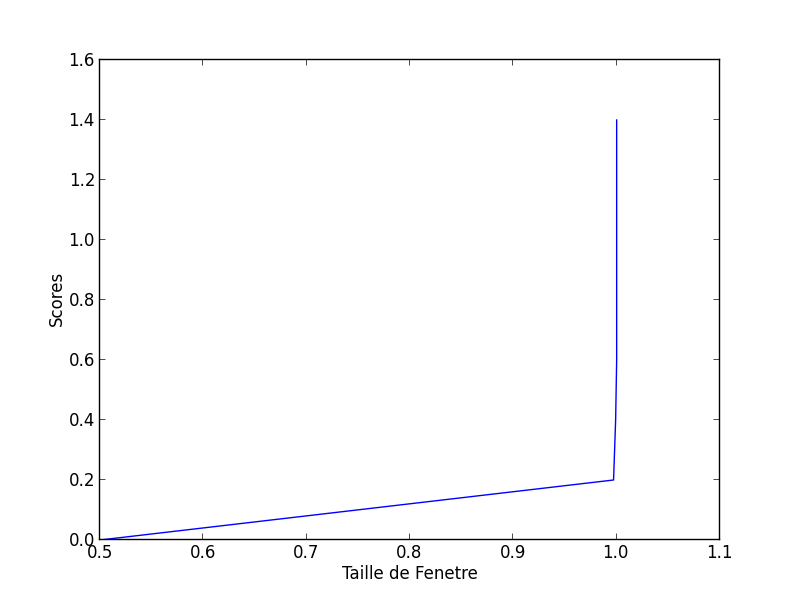
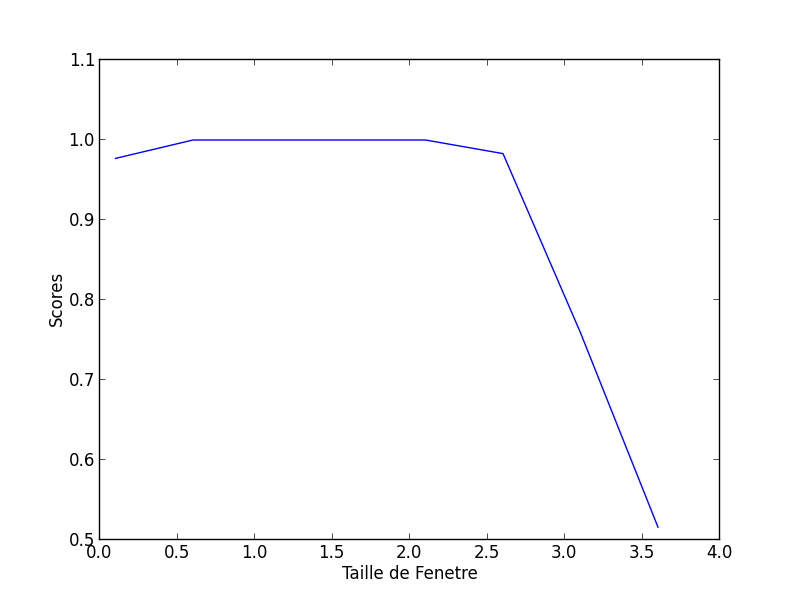
ARF Rapport

diff --git a/ARF/TME02/ARF-TME2.py b/ARF/TME02/ARF-TME2.py
@@ -200,12 +200,12 @@ for K in [hypercube,sphere,gauss,laplace,epanechikov,uniform]:
         plot_frontiere(testX,testY,parzen.predict,fname)
         # plot_frontiere(testX,testY,parzen.predict)
 '''
-arange = np.arange(0,1.5,0.2)
-for t in range(2,4):
+arange = np.arange(0.1,4.1,0.5)
+for t in [0,2,3]:
     trainX,trainY = gen_arti(data_type=t)
     testX ,testY  = gen_arti(data_type=t)
 
-    for K in [hypercube,sphere,gauss,laplace,epanechikov,uniform]:
+    for K in [hypercube,sphere,gauss]: #,laplace,epanechikov,uniform]:
         scores = []
         fname = "parzen[K=%s][data_type=%d].png"%(K.__name__,t)
         for h in arange:
@@ -213,7 +213,7 @@ for t in range(2,4):
             parzen.fit(trainX,trainY)
             scores.append(parzen.score(testX,testY))
         fig = plt.figure()
-        plt.plot(scores,arange)
+        plt.plot(arange,scores)
         plt.ylabel("Scores")
         plt.xlabel("Taille de Fenetre")
         plt.savefig(fname)
